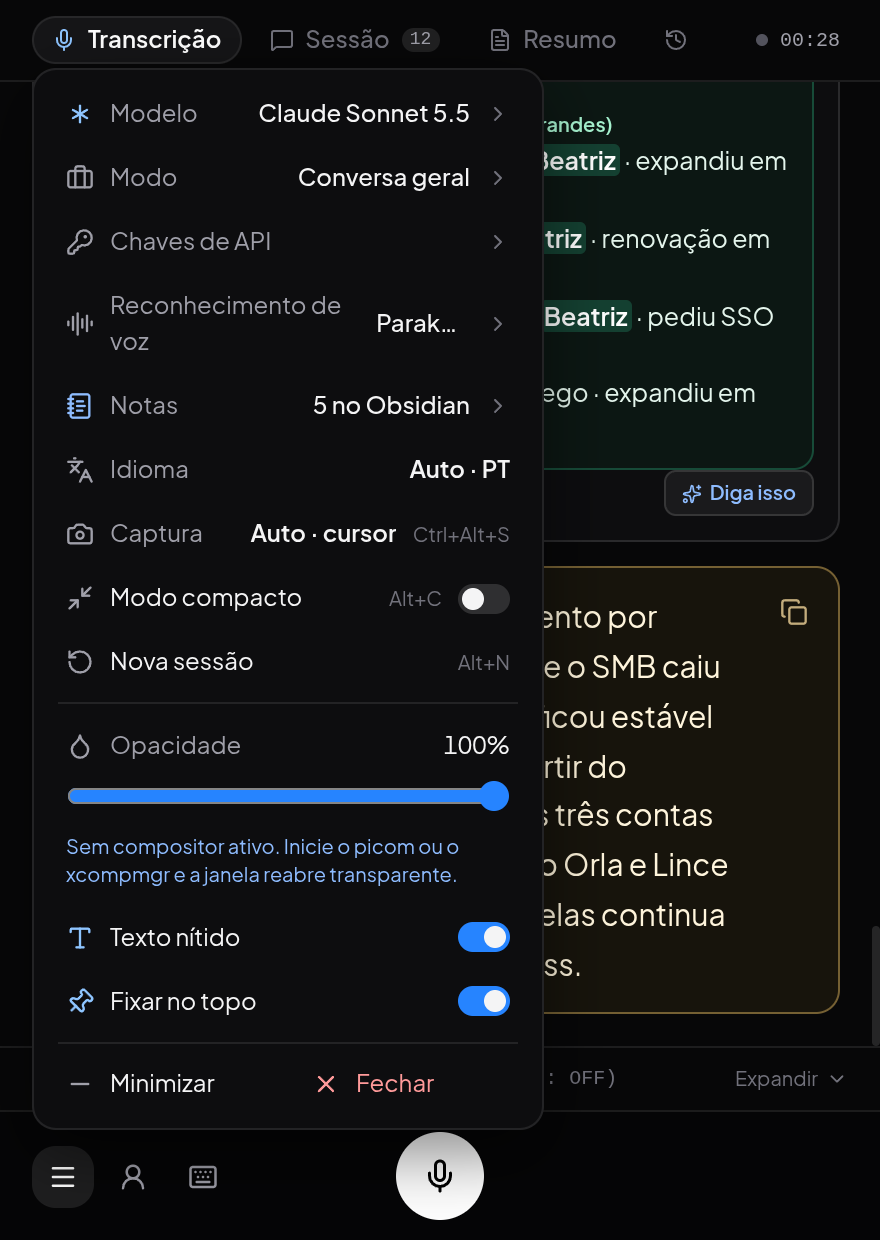
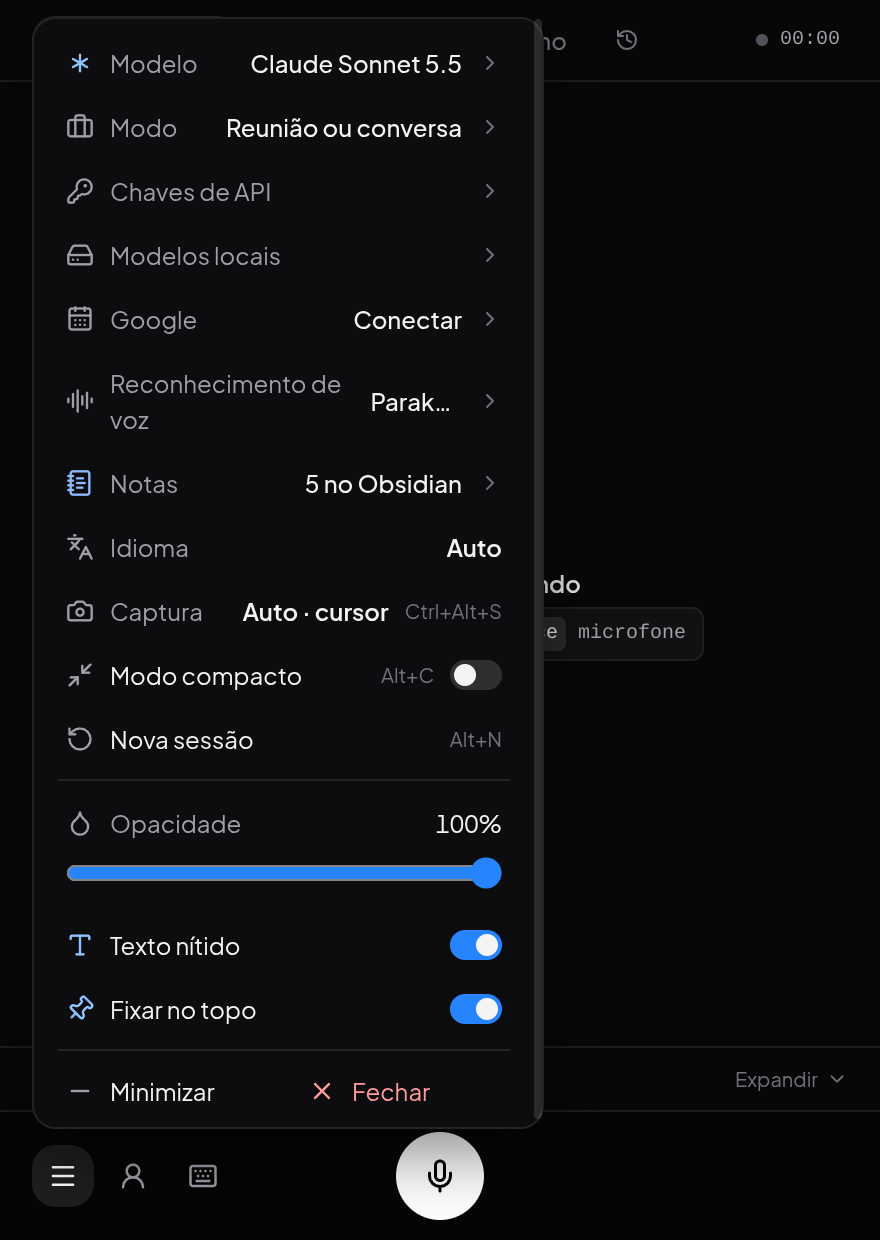
Prepare Sidenote 1.1.0 release
Bump the version to 1.1.0, add docs/release-notes-1.1.0.md, refresh the menu
screenshot, and point the README to building from source instead of installers.

diff --git a/server/codex-session.js b/server/codex-session.js
@@ -136,7 +136,7 @@ function getSession({ conversationId, model = 'gpt-6-luna', reasoningEffort = 'm
   child.stdin.on('error', fail);
   child.on('close', (code) => fail(new Error(`Codex encerrou a sessão (código ${code})`)));
   session.ready = (async () => {
-    await session.rpc('initialize', { clientInfo: { name: 'sidenote', title: 'Sidenote', version: '1.0.0' } });
+    await session.rpc('initialize', { clientInfo: { name: 'sidenote', title: 'Sidenote', version: '1.1.0' } });
     send({ method: 'initialized', params: {} });
     const result = await session.rpc(conversationId ? 'thread/resume' : 'thread/start', {
       ...(conversationId ? { threadId: conversationId } : {}), model, cwd,

diff --git a/server/provider-availability.js b/server/provider-availability.js
@@ -96,7 +96,7 @@ async function checkCodex(bin) {
   });
   const timer = setTimeout(() => failAll(new Error('O Codex não respondeu à verificação.')), CHECK_TIMEOUT_MS);
   try {
-    await rpc('initialize', { clientInfo: { name: 'sidenote', title: 'Sidenote', version: '1.0.0' } });
+    await rpc('initialize', { clientInfo: { name: 'sidenote', title: 'Sidenote', version: '1.1.0' } });
     child.stdin.write(JSON.stringify({ method: 'initialized', params: {} }) + '\n');
     const { account } = await rpc('account/read', {});
     if (!account) return unavailable('Faça login no Codex com "codex login" para usar este provedor.');

diff --git a/docs/release-notes-1.1.0.md b/docs/release-notes-1.1.0.md
@@ -1,0 +1,22 @@
+# Sidenote 1.1.0 release notes
+
+## Internal release summary
+
+- Posicionamento como copiloto de reuniões:
+  - A aba **Vaga** de **Meu contexto** virou **Conversa**: empresa, assunto, sobre a empresa e os produtos, pontos importantes e seu objetivo na conversa. A importação aceita pauta, proposta ou material da empresa.
+  - No **Perfil**, a importação aceita currículo ou bio, e as tecnologias viraram **Áreas e ferramentas**. **Nível** e **Linguagem preferida** só aparecem nos modos de entrevista.
+  - Em **Modo**, a primeira categoria é **Reuniões**, com **Reunião ou conversa**. Os modos de entrevista continuam disponíveis no fim da lista.
+  - Os prompts falam de reunião e de usuário em vez de entrevista e candidato; README, guias e a página do projeto acompanham.
+- Provedores e modelos:
+  - O seletor mostra só os provedores encontrados na máquina (CLIs instalados, keys salvas ou em variáveis de ambiente, runtimes locais) e recolhe os demais em **Outros provedores**, com o que falta para cada um.
+  - **Modelos locais** pelo Ollama e pelo LM Studio: o app escaneia CPU, RAM e placa de vídeo, recomenda o modelo mais adequado e baixa com um clique.
+- Google Agenda e Docs: a reunião da agenda (participantes, descrição e Docs anexados) entra no contexto das sugestões e do resumo; Docs podem ser importados em **Meu contexto**, e reuniões podem ser salvas no Docs. O app traz um cliente OAuth próprio e uma política de privacidade publicada.
+- Desempenho: o modelo de fala carrega sob demanda, o pool de agentes é menor e a interface renderiza menos, reduzindo CPU e memória em repouso.
+- Screenshots refeitos a partir de uma reunião simulada; os de perfil de candidato saíram.
+- Distribuição: esta versão não traz instaladores. Clone o repositório e rode com `npm start` ou gere o pacote com `npm run build:appimage` (Linux) ou `npm run build:win` (Windows).
+- Advances release identity to version `1.1.0`.
+
+## Upgrade notes
+
+- Perfis salvos continuam valendo: só os rótulos mudaram, os campos gravados em `profile.json` são os mesmos.
+- O cliente OAuth do Google fica em `server/google-client.json`, fora do git. Num clone sem esse arquivo, a integração com o Google precisa de um cliente OAuth próprio (tipo **App para computador**, veja o guia de desenvolvimento).

diff --git a/README.md b/README.md
@@ -33,7 +33,7 @@ Copiloto desktop para reuniões. Ele ouve a chamada, transcreve enquanto as pess
 
 ## Baixar
 
-O instalador e o executável portátil para Windows estão na [página de releases](https://github.com/rabpaulo/sidenote/releases/latest). Para rodar a partir do código (Linux ou Windows), siga as seções abaixo.
+O Sidenote é distribuído como código: clone o repositório e rode ou compile na sua máquina (Linux ou Windows), seguindo as seções abaixo. As novidades de cada versão estão na [página de releases](https://github.com/rabpaulo/sidenote/releases/latest).
 
 ## Requisitos
 
@@ -92,7 +92,7 @@ Numa máquina Windows:
 npm run build:win
 ```
 
-São gerados em `release/` o instalador `Sidenote-1.0.0-setup.exe` e o executável portátil `Sidenote-1.0.0-portable.exe`. Basta uma API key ou um CLI autenticado na máquina; o Python só é necessário para os motores de voz opcionais. O app não é assinado; o SmartScreen pode pedir confirmação na primeira execução.
+São gerados em `release/` o instalador `Sidenote-1.1.0-setup.exe` e o executável portátil `Sidenote-1.1.0-portable.exe`. Basta uma API key ou um CLI autenticado na máquina; o Python só é necessário para os motores de voz opcionais. O app não é assinado; o SmartScreen pode pedir confirmação na primeira execução.
 
 ## Gerar AppImage
 
@@ -107,8 +107,8 @@ npm run build:appimage
 O arquivo executável será gerado no diretório `release/`:
 
 ```bash
-chmod +x "release/Sidenote-1.0.0.AppImage"
-./release/Sidenote-1.0.0.AppImage
+chmod +x "release/Sidenote-1.1.0.AppImage"
+./release/Sidenote-1.1.0.AppImage
 ```
 
 ## Documentação

diff --git a/docs/development.md b/docs/development.md
@@ -93,7 +93,7 @@ npm run build:appimage
 ./scripts/build-appimage.sh
 ```
 
-Para o Windows, execute `npm run build:win` numa máquina Windows. Ele gera `release/Sidenote-1.0.0-setup.exe` (instalador, permite escolher a pasta) e `release/Sidenote-1.0.0-portable.exe` (sem instalação). No Linux, `npx electron-builder --win portable --x64` também gera o portátil; o instalador NSIS precisa do Wine com suporte a 32 bits para montar o desinstalador.
+Para o Windows, execute `npm run build:win` numa máquina Windows. Ele gera `release/Sidenote-1.1.0-setup.exe` (instalador, permite escolher a pasta) e `release/Sidenote-1.1.0-portable.exe` (sem instalação). No Linux, `npx electron-builder --win portable --x64` também gera o portátil; o instalador NSIS precisa do Wine com suporte a 32 bits para montar o desinstalador.
 
 Os pacotes trazem o Parakeet, mas não o Python nem os CLIs: para usar os motores de voz opcionais ou um CLI, instale-os na máquina de destino como descrito acima. O `sherpa-onnx-node` instala só os binários do sistema em que o `npm ci` rodou, por isso o pacote do Windows precisa ser gerado no Windows. O app não é assinado digitalmente, então o Windows SmartScreen pode pedir confirmação na primeira execução.
 
